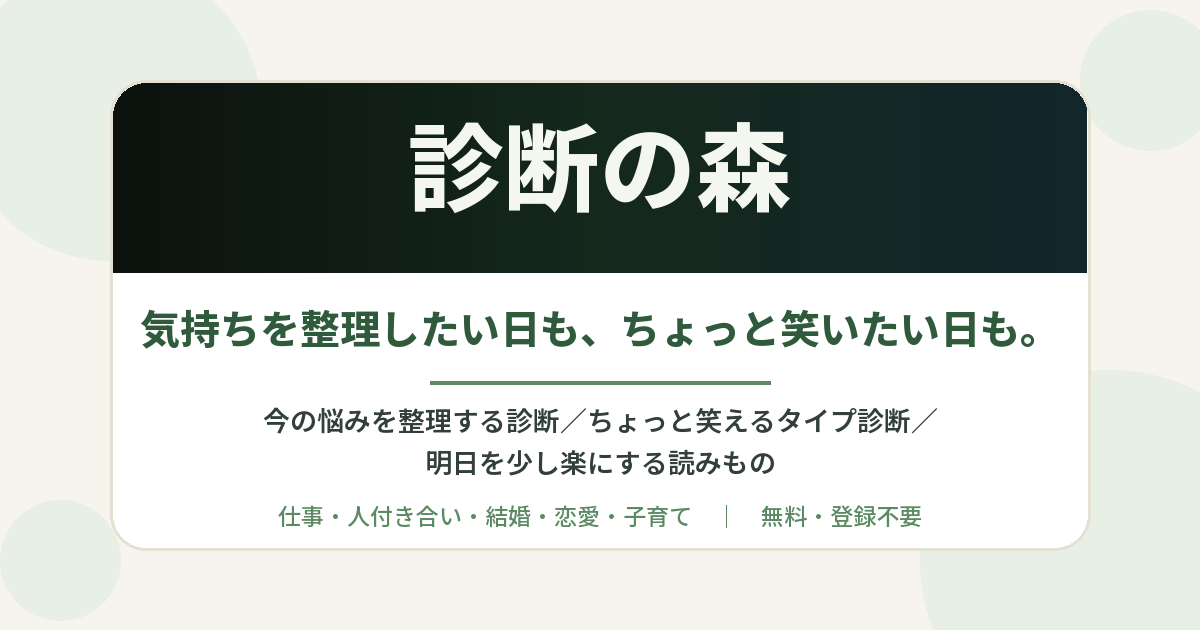
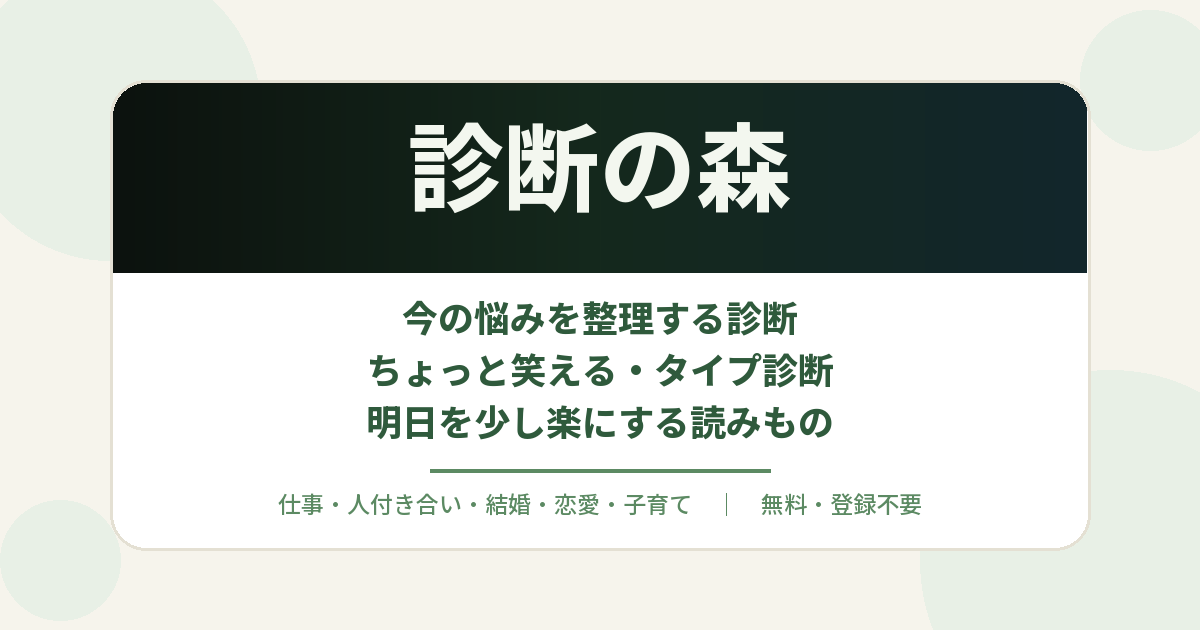
診断の森 v2：結果文の完全修復（5診断・21テーマ）・会社モンスタータイプ診断／恋愛沼タイプ診断へ改名・ホーム見出しと説明文・共有画像・お問い合わせを利用規約の横へ・各診断の3行を削除・旧入口ページを転送に: 2026-10-25

Changed region(s): [[0.1233, 0.4825, 0.8633, 0.754], [0.2158, 0.7841, 0.5858, 0.8444], [0.6167, 0.7841, 0.7708, 0.8444]]

diff --git a/index.html b/index.html
@@ -21,16 +21,16 @@
   <meta name="google-site-verification" content="v19twLq1vsxxadbmuw2XZeJhP79a8cd3uHj1l-VFX58" />
   <meta name="viewport" content="width=device-width, initial-scale=1.0">
   <title>診断の森｜悩みを整理する診断・笑えるタイプ診断・読みもの</title>
-  <meta name="description" content="気持ちを整理したい日も、ちょっと笑いたい日も。仕事・人付き合い・子育て・恋愛・結婚の悩みを整理する「今の悩みを整理する診断」、自分をキャラにたとえて笑える「タイプ診断」17種類、明日を少し楽にする読みもの40本。無料・登録不要。">
+  <meta name="description" content="仕事・人付き合い・子育て・恋愛・結婚の悩みを整理する「今の悩みを整理する診断」、自分をキャラにたとえて笑える「タイプ診断」17種類、明日を少し楽にする読みもの40本。無料・登録不要。">
   <meta property="og:title" content="診断の森｜悩みを整理する診断・笑えるタイプ診断・読みもの">
-  <meta property="og:description" content="気持ちを整理したい日も、ちょっと笑いたい日も。今の悩みを整理する診断5種類・笑えるタイプ診断17種類・読みもの40本。無料・登録不要。">
+  <meta property="og:description" content="今の悩みを整理する診断5種類・笑えるタイプ診断17種類・読みもの40本。無料・登録不要。">
   <meta property="og:type" content="website">
   <meta property="og:url" content="https://pgdhaev4.github.io/">
   <meta property="og:image" content="https://pgdhaev4.github.io/shindan/ogp.png">
   <meta property="og:site_name" content="診断の森">
   <meta name="twitter:card" content="summary_large_image">
   <meta name="twitter:title" content="診断の森｜悩みを整理する診断・笑えるタイプ診断・読みもの">
-  <meta name="twitter:description" content="気持ちを整理したい日も、ちょっと笑いたい日も。今の悩みを整理する診断5種類・笑えるタイプ診断17種類・読みもの40本。無料・登録不要。">
+  <meta name="twitter:description" content="今の悩みを整理する診断5種類・笑えるタイプ診断17種類・読みもの40本。無料・登録不要。">
   <meta name="twitter:image" content="https://pgdhaev4.github.io/shindan/ogp.png">
   <meta name="google-adsense-account" content="ca-pub-3934206444145241">
   <script async src="https://pagead2.googlesyndication.com/pagead/js/adsbygoogle.js?client=ca-pub-3934206444145241" crossorigin="anonymous"></script>
@@ -56,8 +56,9 @@
         radial-gradient(ellipse at 80% 30%, rgba(243,181,98,0.09) 0%, transparent 60%);
     }
     .page-hero > * { position: relative; }
+    /* 10/25 R44：見出しはサイト名「診断の森」だけ＝大きく（幅390で約35px・PCで約45px） */
     .page-hero h1 {
-      font-size: clamp(1.35rem, 5.6vw, 2.1rem); line-height: 1.45; font-weight: 900; margin-bottom: 10px;
+      font-size: clamp(1.9rem, 9vw, 2.8rem); line-height: 1.3; font-weight: 900; letter-spacing: .08em; margin-bottom: 10px;
       background: linear-gradient(135deg, #fff 0%, #d9e8d0 50%, #f7e0c0 100%);
       -webkit-background-clip: text; -webkit-text-fill-color: transparent; background-clip: text;
     }
@@ -178,12 +179,9 @@
 <body>
 <div class="page-wrapper">
 
-  <header class="site-header">
-    <a href="/" class="site-title">🌲 診断の森</a>
-  </header>
-
+  <!-- 2026-10-25 オーナー指示（台帳 R44）：上の「🌲 診断の森」の帯は削除（見出しと「診断の森」が2回続くため）・見出しは「診断の森」に（キャッチ「気持ちを整理したい日も、ちょっと笑いたい日も。」は画面から削除） -->
   <div class="page-hero">
-    <h1><span>気持ちを整理したい日も、</span><span>ちょっと笑いたい日も。</span></h1>
+    <h1>診断の森</h1>
     <p class="lead">今の悩みを整理する診断、自分を笑えるタイプ診断、明日を少し楽にする読みもの。<br>どれも無料・会員登録なしで使えます。</p>
   </div>
 
@@ -242,7 +240,7 @@
         <div class="tg tg-work">
           <a class="tg-head" href="/shindan/workplace_app/">
             <span class="tg-img"><img src="/shindan/workplace_app/images/shachiku_zangyo_gorilla.png" alt="" width="60" height="60" loading="lazy" onerror="this.parentElement.textContent='💼'"></span>
-            <span class="tg-hd"><span class="tg-name">会社モンスター診断</span><span class="tg-sub">職場での自分を、モンスターにたとえる</span><span class="tg-count">全4種類</span></span>
+            <span class="tg-hd"><span class="tg-name">会社モンスター<wbr>タイプ診断</span><span class="tg-sub">職場での自分を、モンスターにたとえる</span><span class="tg-count">全4種類</span></span>
           </a>
           <ul class="tg-list">
             <li><a href="/shindan/workplace_app/salaryman.html"><span class="t-tx"><b>モンスター度診断</b><small>定時の妖精から社畜神まで、あなたはどれ？</small></span><span class="arrow">›</span></a></li>
@@ -261,7 +259,7 @@
         <div class="tg tg-love">
           <a class="tg-head" href="/shindan/psychology_app/">
             <span class="tg-img"><img src="/shindan/psychology_app/images/chars_new/元カレ監視衛星.png" alt="" width="60" height="60" loading="lazy" onerror="this.parentElement.textContent='💖'"></span>
-            <span class="tg-hd"><span class="tg-name">恋愛沼診断</span><span class="tg-sub">恋をしている自分の「沼」を、笑ってみる</span><span class="tg-count">全7種類</span></span>
+            <span class="tg-hd"><span class="tg-name">恋愛沼タイプ診断</span><span class="tg-sub">恋をしている自分の「沼」を、笑ってみる</span><span class="tg-count">全7種類</span></span>
           </a>
           <ul class="tg-list">
             <li><a href="/shindan/psychology_app/love_type.html"><span class="t-tx"><b>あなたが恋愛で沼る理由診断</b><small>いちばん人気。沼るパターンをキャラで</small></span><span class="arrow">›</span></a></li>

diff --git a/about.html b/about.html
@@ -83,7 +83,7 @@
     <h2>置いている診断</h2>
     <ul>
       <li><strong><a href="/#shindan">今の悩みを整理する診断</a>（5種類）：</strong>会社を辞めるか迷っている・職場の人付き合いに疲れた・結婚を焦ってしまう・恋愛で自信をなくした・子育てに疲れた、の5つです。つらさを点数にせず、今の困りごとと、今日からできること1つを整理します。</li>
-      <li><strong><a href="/#yorimichi">ちょっと笑える・タイプ診断</a>（17種類）：</strong>会社モンスター診断（4種類）・恋愛沼診断（7種類）・子育て親タイプ診断（6種類）。自分をキャラクターにたとえて笑える、遊びの診断です。「〜度」のような遊びの数値や、4つ受けると読める特典があります。</li>
+      <li><strong><a href="/#yorimichi">ちょっと笑える・タイプ診断</a>（17種類）：</strong>会社モンスタータイプ診断（4種類）・恋愛沼タイプ診断（7種類）・子育て親タイプ診断（6種類）。自分をキャラクターにたとえて笑える、遊びの診断です。「〜度」のような遊びの数値や、4つ受けると読める特典があります。</li>
       <li><strong><a href="/shindan/articles.html">明日を少し楽にする読みもの</a>（40本）：</strong>仕事・恋愛・子育てで少し疲れたときに読む、今日からできることを書いた記事です。</li>
     </ul>
 
